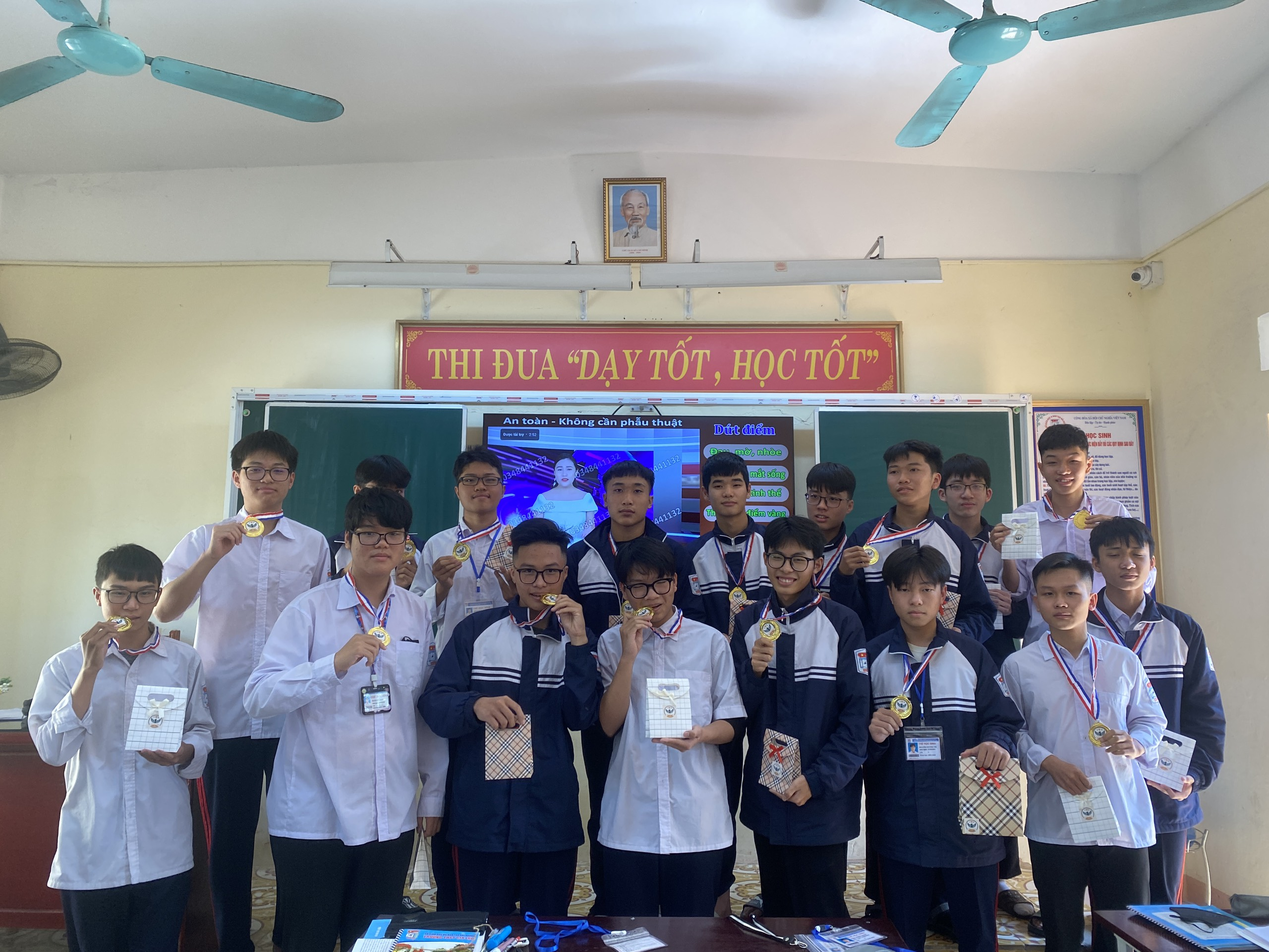
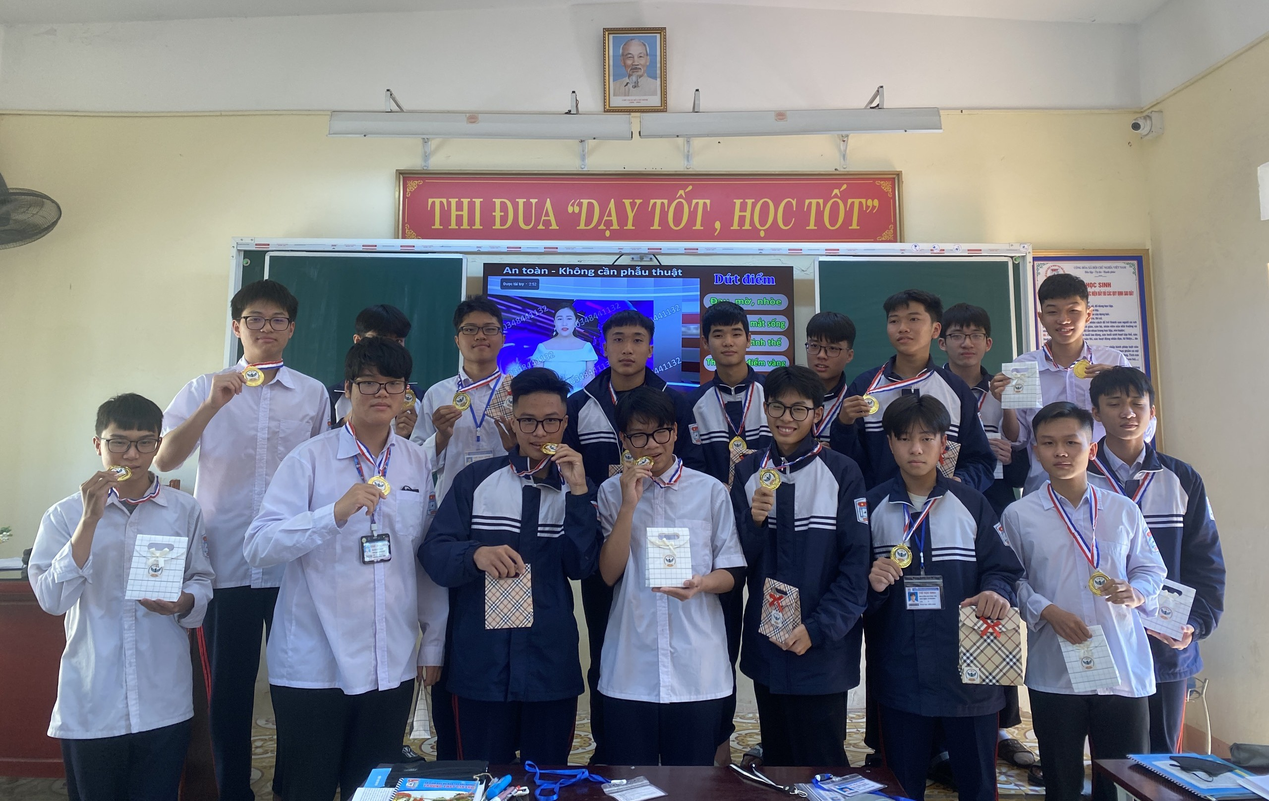
ss

diff --git a/home/index.html b/home/index.html
@@ -38,7 +38,7 @@
             <h2>Hình ảnh</h2>
         </div>
         <div class="trinhbay">
-            <img id="anhlop" src="z4896123441117_9ebdc24fc07574021e615e19d1f37ab4.jpg" alt="Ảnh lớp" height="670" width="926">
+            <img id="anhlop" src="z4896123441117_9ebdc24fc07574021e615e19d1f37ab4.jpg" alt="Ảnh lớp" height="650" width="906">
         </div>
         <div class="contents">
             <h2>Video</h2>
@@ -80,7 +80,7 @@
                 data-setup="{}"
             >
                 <source src="Video/Hiroyuki SAWANO feat XAIDARK ARIALyric Video from俺だけレベルアップな件.mp4" type="video/mp4" />
-                <track kind="captions" src="Video/darkariavtt.vtt" srclang="vi" label="Vietnamese" default>
+                <track kind="captions" src="Video/darkaria.ass" srclang="vi" label="Vietnamese" default>
                 <p class="vjs-no-js">
                 To view this video please enable JavaScript, and consider upgrading to a
                 web browser that

diff --git a/home/style.css b/home/style.css
@@ -120,5 +120,6 @@
 
 .menubar {
     position: relative;
-
+    margin-right: 20px;
+    
 }
